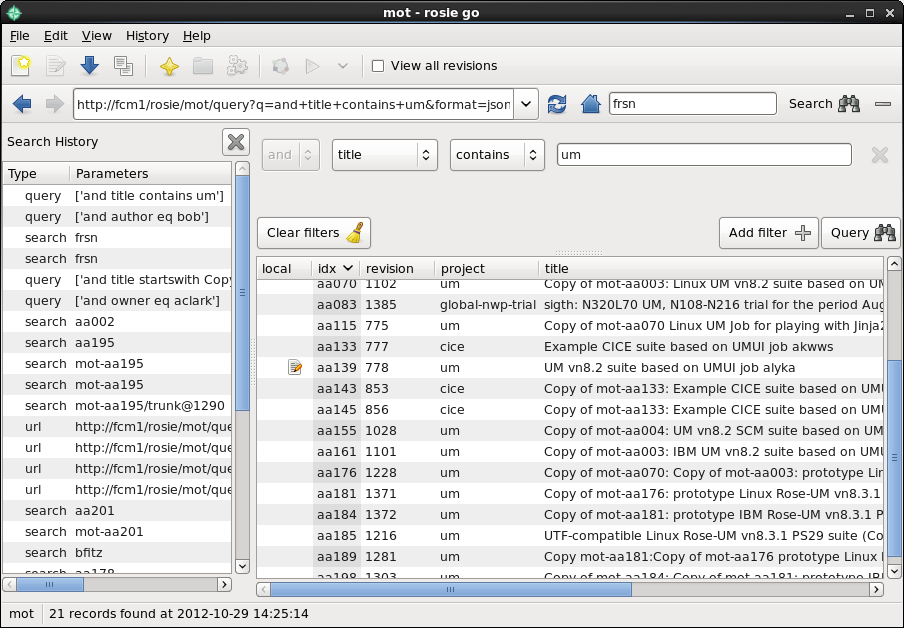
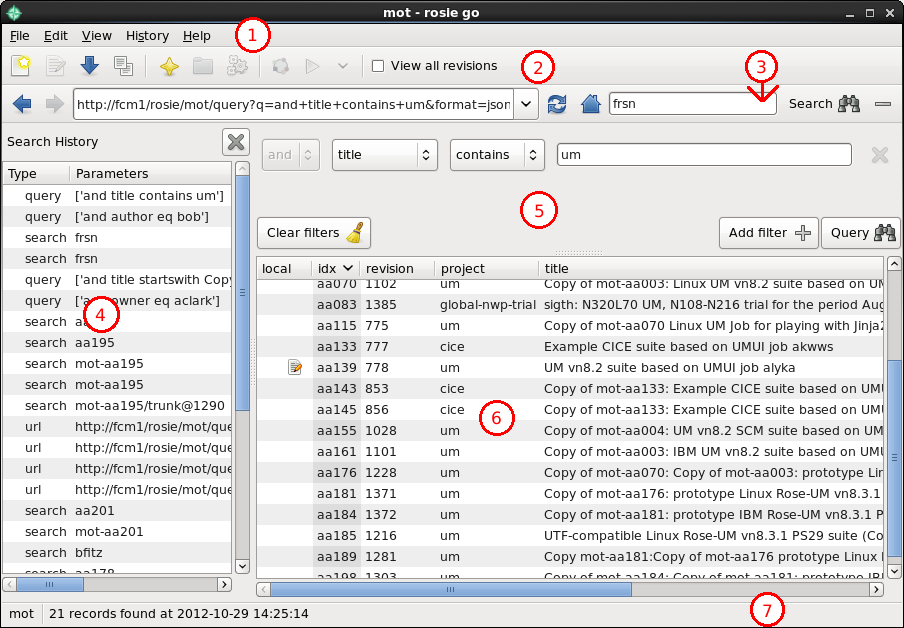
metomi/rose#89 rosie gui guide for suggestions.

diff --git a/doc/rosie-go-GUI.html b/doc/rosie-go-GUI.html
@@ -39,7 +39,19 @@
     
     <h2 id="layout">Rosie go layout</h2>
     
-    Labelled screen capture with key.
+    <img src="rosie_go_layout.png" alt="rosie go layout picture">
+
+    <p>
+    <ol>
+        <li>Menu Bar</li>
+        <li>Toolbar</li>
+        <li>Addressbar</li>
+        <li>History</li>
+        <li>Advanced search pane</li>
+        <li>Results</li>
+        <li>Statusbar</li>
+    </ol>
+    </p>
     
     <h2 id="suite-search">Locating suites</h2>
 
@@ -81,8 +93,8 @@
     
     <p>Queries are constructed by creating and combining filters comparing 
     suite properties to various values. Each filter takes up a row in the 
-    advanced search pane. Use the drop down boxes to set filter operators -  
-    "and" or "or" - property to be examined and the comparison operator to be 
+    advanced search pane. Use the drop down boxes to set filter operators,  
+    the property to be examined and the comparison operator to be 
     used. The value against which the property is to be compared against (using
     your selected comparison operator) should be entered in the value box.</p>
     
@@ -145,6 +157,11 @@
     of past searches (100 by default) so older, less used searches will 
     disappear from the history menu as new ones are run.</p>
     
+    <h3 id="view-revisions">Searching for all suite revisions</h3>
+    
+    <p>For details on how to search for all revisions of a suite rather than 
+    just the latest see <a href="#all-revisions">here</a>.
+    
     <h2 id="management">Suite management</h2>
     
     <h3 id="create">Creating a suite</h3>
@@ -162,7 +179,7 @@
     
     <p>To checkout a suite select it from the search results and click the 
     "Checkout" button on the toolbar. Alternatively, right click the 
-    suite and select "Checkout Suite".</p>
+    suite and select "Checkout Suite" from the popup menu.</p>
     
     <p>Suites you have copies of checked out on your machine can be identified
     by having an icon in the "local" column of the results table. You can also
@@ -174,7 +191,7 @@
     <p>To permanently delete <strong>all branches of, the trunk and any working
     copy of a suite</strong>, right click on the suite in search results and
     select "Delete Suite" from the pop-up menu. A dialog will then appear 
-    asking you to confirm the deletion.</p>
+    asking you to confirm you wish to go ahead with the deletion.</p>
     
     <p>To delete <strong>only your working copy</strong> of a suite right click
     on it and select "Delete Working Copy" and press OK in the dialog that 
@@ -201,10 +218,11 @@
 
     <h3 id="info">Getting more information about a suite</h3>
     
-    <p>To obtain more information about a suite in the search results you can 
-    do one of two things; hold your mouse over the suite to display the tooltip
-    containing more details or right click on the suite and click "info" in the
-    pop-up menu to display a dialog box containing further details.</p>
+    <p>To obtain more information about a suite listed in the search results 
+    you can do one of two things; hold your mouse over the suite to display a
+    tooltip containing more details or right click on the suite and click 
+    "info" in the pop-up menu to display a dialog box containing further 
+    details.</p>
     
     <h3 id="group">Grouping results by column</h3>
     
@@ -252,7 +270,7 @@
     you run and allows you to navigate back to previous searches. By clicking 
     on the back and forward arrows you can navigate through the searches you 
     have run in the current session. Alternatively, you can make use of the 
-    keyboard shortcuts <kbd>Ctrl-left</kbd> and <kbd>Ctrl-right</kbd> to move
+    keyboard shortcuts <kbd>Alt-left</kbd> and <kbd>Alt-right</kbd> to move
     backwards and forwards respectively.</p>
     
     <h3 id="repo-change">Switching repository</h3>
